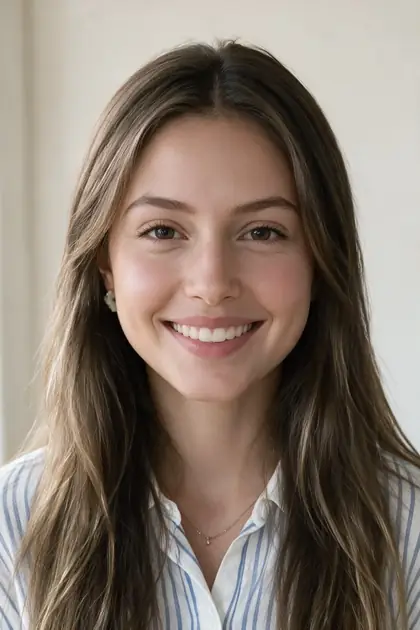
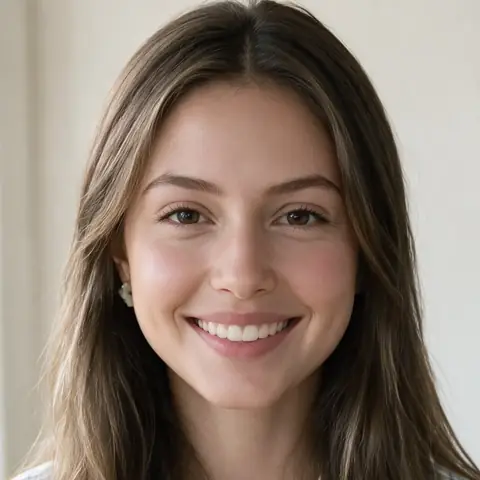
Idade: fotos quadradas e cartões mais largos
- Fotos da idade recortadas em 1:1 no rosto (480 × 480 px, WebP, ~13 KB)
- Cartões bem mais largos (foto de ~150 px no iPhone 12); a grade só estreita
  um pouco em telas baixas, mantendo o formato quadrado

Claude-Session: https://claude.ai/code/session_015PAYQdb8Gor8FQ1pSJN8Hr

diff --git a/assets/js/quiz.js b/assets/js/quiz.js
@@ -457,7 +457,7 @@
   var FIGURA_MIN = 130;                    // altura mínima da imagem de exemplo
   var FOTO_PROPORCAO_MIN = 0.74;           // fotos da idade: de quadrada até 74% da largura
   var FOTO_SINAIS_MIN = 78;                // fotos dos sinais: altura mínima
-  var RETRATO_MIN = 120;                   // fotos 2:3 (idade): altura mínima
+  var QUADRADO_MIN = 110;                  // fotos quadradas (idade): tamanho mínimo
 
   function encaixarNaTela() {
     if (formulaEl.hidden) return;
@@ -481,14 +481,14 @@
     var fotos = screenEl.querySelectorAll(".quiz-card-foto");
     if (!fotos.length) return;
 
-    // Fotos em 2:3: para manter a proporção, a grade fica mais estreita
-    // (centralizada) até os cartões caberem acima do painel.
-    if (lista.classList.contains("quiz-cards-retrato")) {
+    // Fotos quadradas: para manter a proporção, a grade fica um pouco mais
+    // estreita (centralizada) até os cartões caberem acima do painel.
+    if (lista.classList.contains("quiz-cards-quadrado")) {
       for (var tentativa = 0; tentativa < 6 && sobra < 0; tentativa++) {
         var foto = fotos[0].getBoundingClientRect();
         var cartao = lista.firstElementChild.getBoundingClientRect();
-        var novaAltura = Math.max(RETRATO_MIN, foto.height + sobra / 2);
-        var novaLargura = novaAltura * 2 / 3;
+        var novaAltura = Math.max(QUADRADO_MIN, foto.height + sobra / 2);
+        var novaLargura = novaAltura;
         var folga = cartao.width - foto.width;
         var gap = parseFloat(getComputedStyle(lista).columnGap) || 0;
         lista.style.maxWidth = (2 * (novaLargura + folga) + gap + 4).toFixed(1) + "px";
@@ -510,7 +510,7 @@
       e.style.height = "";
       e.style.width = "";
     });
-    var grade = screenEl.querySelector(".quiz-cards-retrato");
+    var grade = screenEl.querySelector(".quiz-cards-quadrado");
     if (grade) grade.style.maxWidth = "";
     encaixarNaTela();
   });
@@ -534,7 +534,7 @@
 
     var classeLista = p.tipo === "B" ? "quiz-cards" : "quiz-options";
     if (p.tipo === "B" && p.opcoes.length > 4) classeLista += " quiz-cards-3";
-    if (p.formato === "retrato") classeLista += " quiz-cards-retrato";
+    if (p.formato === "quadrado") classeLista += " quiz-cards-quadrado";
     var lista = el("div", classeLista);
     lista.setAttribute("role", multipla ? "group" : "radiogroup");
     lista.setAttribute("aria-labelledby", "quiz-pergunta");
@@ -555,8 +555,8 @@
       if (p.tipo === "B") {
         botao.appendChild(slotDeImagem("quiz-card-foto", "Foto " + (i + 1), op.imagem, ""));
         var rotulo = el("span", "quiz-card-text", texto);
-        // Retrato: "Entre 18 - 25 anos" vira "ENTRE" pequeno + "18 - 25 anos"
-        var partes = p.formato === "retrato" && (texto.match(/^(Entre)\s+(.+)$/) || texto.match(/^\+\s*(\d+ anos)$/));
+        // "Entre 18 - 25 anos" vira "ENTRE" pequeno + "18 - 25 anos"
+        var partes = p.formato === "quadrado" && (texto.match(/^(Entre)\s+(.+)$/) || texto.match(/^\+\s*(\d+ anos)$/));
         if (partes) {
           rotulo.textContent = "";
           rotulo.appendChild(el("small", null, partes.length === 3 ? partes[1] : "Mais de"));

diff --git a/assets/css/style.css b/assets/css/style.css
@@ -734,36 +734,37 @@ a {
   font-size: 16.5px;
 }
 
-/* Fotos em retrato (2:3), ex.: idade. A grade estreita se faltar altura. */
-.quiz-cards-retrato {
+/* Fotos quadradas (1:1), ex.: idade. Cartões largos; a grade estreita um
+   pouco, mantendo a proporção, se faltar altura. */
+.quiz-cards-quadrado {
   gap: 12px;
   margin-left: auto;
   margin-right: auto;
 }
 
-.quiz-cards-retrato .quiz-card {
-  padding: 7px 7px 0;
+.quiz-cards-quadrado .quiz-card {
+  padding: 8px 8px 0;
   border-radius: 18px;
 }
 
-.quiz-cards-retrato .quiz-card-foto {
-  aspect-ratio: 2 / 3;
+.quiz-cards-quadrado .quiz-card-foto {
+  aspect-ratio: 1 / 1;
   border-radius: 12px;
 }
 
 /* Rótulo em duas linhas: "ENTRE" pequeno + faixa de idade em negrito */
-.quiz-cards-retrato .quiz-card-text {
+.quiz-cards-quadrado .quiz-card-text {
   display: flex;
   flex-direction: column;
   align-items: center;
   justify-content: center;
   gap: 1px;
-  min-height: 44px;
-  font-size: 14px;
+  min-height: 46px;
+  font-size: 15.5px;
   line-height: 1.05;
 }
 
-.quiz-cards-retrato .quiz-card-text small {
+.quiz-cards-quadrado .quiz-card-text small {
   color: #9a9ea4;
   font-family: var(--font-condensed);
   font-size: 11px;

diff --git a/assets/js/quiz-perguntas.js b/assets/js/quiz-perguntas.js
@@ -75,7 +75,7 @@ window.QUIZ_FLUXO = [
         tipo: "B",
         titulo: "Qual é sua idade?",
         subtitulo: "Vamos separar os melhores ativos conforme suas escolhas",
-        formato: "retrato", // fotos em 2:3
+        formato: "quadrado", // fotos 1:1, rótulo em duas linhas
         opcoes: [
           { texto: "Entre 18 - 25 anos", imagem: "assets/img/quiz/idade-18-25.webp" },
           { texto: "Entre 25 - 35 anos", imagem: "assets/img/quiz/idade-25-35.webp" },

diff --git a/README.md b/README.md
@@ -51,10 +51,10 @@ As imagens são convertidas para WebP, no tamanho em que aparecem, para a págin
 | FOTO 2 (rosto 2, prova social) | `assets/img/foto-2.webp` | ✅ já colocada |
 | FOTO 3 (rosto 3, prova social) | `assets/img/foto-3.webp` | ✅ já colocada |
 | Imagem do carregamento (quiz) | `assets/img/carregamento.jpg` | 1404 × 880 px (provisória, recortada do layout) |
-| Idade: Entre 18 - 25 anos | `assets/img/quiz/idade-18-25.webp` | ✅ já colocada (2:3) |
-| Idade: Entre 25 - 35 anos | `assets/img/quiz/idade-25-35.webp` | ✅ já colocada (2:3) |
-| Idade: Entre 35 - 40 anos | `assets/img/quiz/idade-35-40.webp` | ✅ já colocada (2:3) |
-| Idade: +40 anos | `assets/img/quiz/idade-40-mais.webp` | ✅ já colocada (2:3) |
+| Idade: Entre 18 - 25 anos | `assets/img/quiz/idade-18-25.webp` | ✅ já colocada (1:1) |
+| Idade: Entre 25 - 35 anos | `assets/img/quiz/idade-25-35.webp` | ✅ já colocada (1:1) |
+| Idade: Entre 35 - 40 anos | `assets/img/quiz/idade-35-40.webp` | ✅ já colocada (1:1) |
+| Idade: +40 anos | `assets/img/quiz/idade-40-mais.webp` | ✅ já colocada (1:1) |
 | Ativo: Ácido Hialurônico (bolinha) | `assets/img/ativos/acido-hialuronico.jpg` | ✅ já colocada |
 | Ativo: PDRN (bolinha) | `assets/img/ativos/pdrn.jpg` | ✅ já colocada |
 | Pergunta 3 (exemplo): Você já pensou em fazer botox ou peeling? | `assets/img/quiz/botox-peeling.webp` | ✅ já colocada (3:2) |
